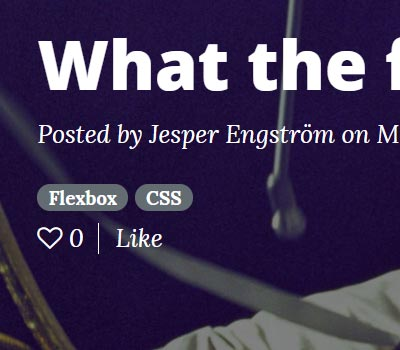
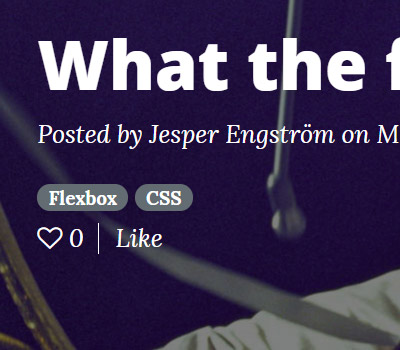
more cards

diff --git a/src/components/Section/Portfolio/items.js b/src/components/Section/Portfolio/items.js
@@ -1,5 +1,7 @@
 const node = 'img/node.jpg';
 
+//img sizes: thumb 400*350px
+
 export const items = [
     {
         name: 'Palmekartan',
@@ -8,7 +10,8 @@ export const items = [
         tech: ['Node', 'Express', 'MongoDb', 'Mongoose'],
         url: 'http://http://palmekartan.cloudno.de/',
         repo: 'http://github.com',
-        img: 'front-end-blog.jpg',
+        img: 'palmekartan.jpg',
+        color: 'rgba(174, 21, 21, 0.87)'
     }, 
     {
         name: 'Talartoppen',
@@ -17,26 +20,29 @@ export const items = [
         tech: ['Node', 'Express', 'MongoDb', 'Mongoose'],
         url: 'http://http://palmekartan.cloudno.de/',
         repo: 'http://github.com',
-        img: 'front-end-blog.jpg',
+        img: 'talartoppen.jpg',
+        color: 'rgba(53, 86, 49, 0.82)'
 
     },
     {
-        name: 'Front End blog',
+        name: 'Front end blog',
         date: 'augusti 2017',
         description: 'En sajt om Palmemordet',
         tech: [node, 'Express', 'MongoDb', 'Mongoose'],
         url: 'http://http://palmekartan.cloudno.de/',
         repo: 'http://github.com',
         img: 'front-end-blog.jpg',
+        color: 'rgba(30, 12, 60, 0.78)'
     },
     {
-        name: 'JMBb',
+        name: 'JMDb',
         date: 'augusti 2017',
         description: 'En sajt om Palmemordet',
         tech: [node, 'Express', 'MongoDb', 'Mongoose'],
         url: 'http://http://palmekartan.cloudno.de/',
         repo: 'http://github.com',
-        img: 'front-end-blog.jpg',
+        img: 'jmdb.jpg',
+        color: 'rgba(245, 222, 80, 0.89)'
     },
     {
         name: 'Asap Development',
@@ -45,7 +51,8 @@ export const items = [
         tech: [node, 'Express', 'MongoDb', 'Mongoose'],
         url: 'http://http://palmekartan.cloudno.de/',
         repo: 'http://github.com',
-        img: 'front-end-blog.jpg',
+        img: 'asap-dev.jpg',
+        color: 'rgba(85, 18, 8, 1)'
     },
     {
         name: 'Sänka skepp',
@@ -54,7 +61,8 @@ export const items = [
         tech: [node, 'Express', 'MongoDb', 'Mongoose'],
         url: 'http://http://palmekartan.cloudno.de/',
         repo: 'http://github.com',
-        img: 'front-end-blog.jpg',
+        img: 'sanka-skepp.jpg',
+        color: 'rgba(73, 106, 141, 0.89)'
     },
     {
         name: 'Todo',
@@ -63,26 +71,9 @@ export const items = [
         tech: [node, 'Express', 'MongoDb', 'Mongoose'],
         url: 'http://http://palmekartan.cloudno.de/',
         repo: 'http://github.com',
-        img: 'front-end-blog.jpg',
+        img: 'todo.jpg',
+        color: 'rgba(174, 21, 21, 0.51)'
     },
-    {
-        name: 'React',
-        date: 'augusti 2017',
-        description: 'En sajt om Palmemordet',
-        tech: [node, 'Express', 'MongoDb', 'Mongoose'],
-        url: 'http://http://palmekartan.cloudno.de/',
-        repo: 'http://github.com',
-        img: 'front-end-blog.jpg',
-    },
-    {
-        name: 'Ny',
-        date: 'augusti 2017',
-        description: 'En sajt om Palmemordet',
-        tech: [node, 'Express', 'MongoDb', 'Mongoose'],
-        url: 'http://http://palmekartan.cloudno.de/',
-        repo: 'http://github.com',
-        img: 'front-end-blog.jpg',
-    }
 ];
 
 

diff --git a/src/components/Section/Portfolio/Card/index.js b/src/components/Section/Portfolio/Card/index.js
@@ -9,14 +9,15 @@ function Card({item, onClick, reverse}) {
     return (
         <div className="card-container">
             <div 
+                style={{backgroundColor: item.color}}
                 className={`card flex ${reverse ? 'flex-column-reverse' : 'flex-column'}`}
                 onClick={()=>onClick(item)}>
-                    <div className="flex">
-                        <h3 className="p-1">
+                    <div className={`flex ${reverse ? 'border-top' : 'border-bottom'}`}>
+                        <h2 className="card-header p-2">
                             {item.name}
-                        </h3>
+                        </h2>
                     </div>
-                    <div className="card-img-container flex">
+                    <div className={`card-img-container flex ${reverse ? 'border-bottom' : 'border-top'}`}>
                         <img src={thumb} className="card-img" alt={item.name} />
                     </div>
             </div>

diff --git a/src/components/Section/Portfolio/Card/styles.css b/src/components/Section/Portfolio/Card/styles.css
@@ -3,15 +3,22 @@
     max-height: 50%;
     width: 20%;
     max-width: 20%;
+    min-width: 250px;
     /* flex-grow: 1; */
     padding-bottom: 1rem;
     padding-right: 1rem;
 }
 
 .card {
-    background-color: white;
+    /* background-color: white; */
     height: 100%;
     justify-content: flex-end;
+    box-shadow: 0 0 2px rgba(0, 0, 0, 0.26);
+}
+
+.card:hover {
+    cursor: pointer;
+    filter: brightness(50%);
 }
 
 .card-img-container {
@@ -23,4 +30,19 @@
 
 .card-img {
     width: 100%;
+    filter: opacity(85%) grayscale(50%);
+}
+
+.card-header {
+    color: white;
+    font-weight: 200;
+}
+
+.border-top {
+    border-top: 0.5rem solid rgba(0, 0, 0, 0.25);
+    ;
+}
+
+.border-bottom {
+    border-bottom: 0.5rem solid rgba(0, 0, 0, 0.25);
 }

diff --git a/src/components/Section/Portfolio/index.js b/src/components/Section/Portfolio/index.js
@@ -37,7 +37,8 @@ class Portfolio extends React.Component{
             <article className="flex full-height p-2 card-wrapper">
                 {!this.state.openItem ? 
                     cards : 
-                    <Item item={this.state.openItem} onClick={this.closeItem} />}
+                    [<Card item={this.state.openItem} onClick={this.toggleItem} />,
+                    <Item item={this.state.openItem} onClick={this.closeItem} />]}
             </article>
             );
     }

diff --git a/src/components/sections.js b/src/components/sections.js
@@ -7,7 +7,8 @@ const sections = [
     },
     {
       name: 'portfolio',
-      style: { backgroundColor: '#6A6AC0' },
+      // style: { backgroundColor: '#6A6AC0' }, old purple
+      style: { backgroundColor: 'rgba(209, 209, 229, 0.38)' },
       displayName: 'Portfolio',
     },
     {
